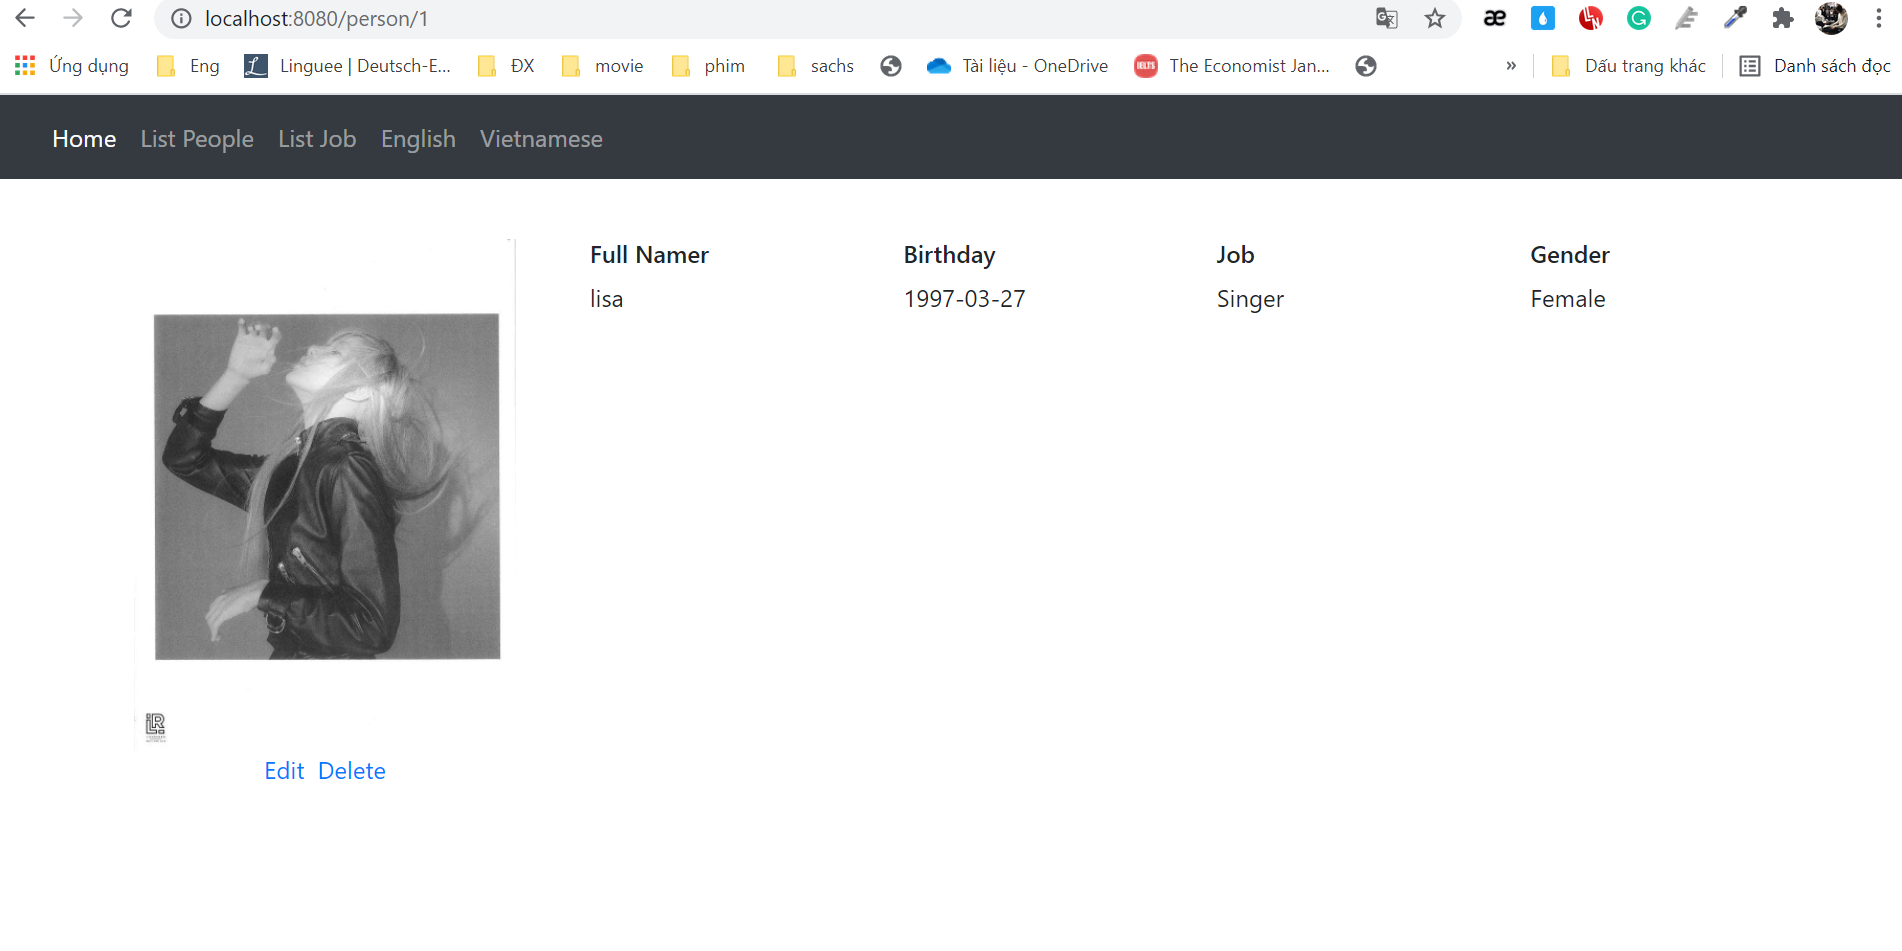
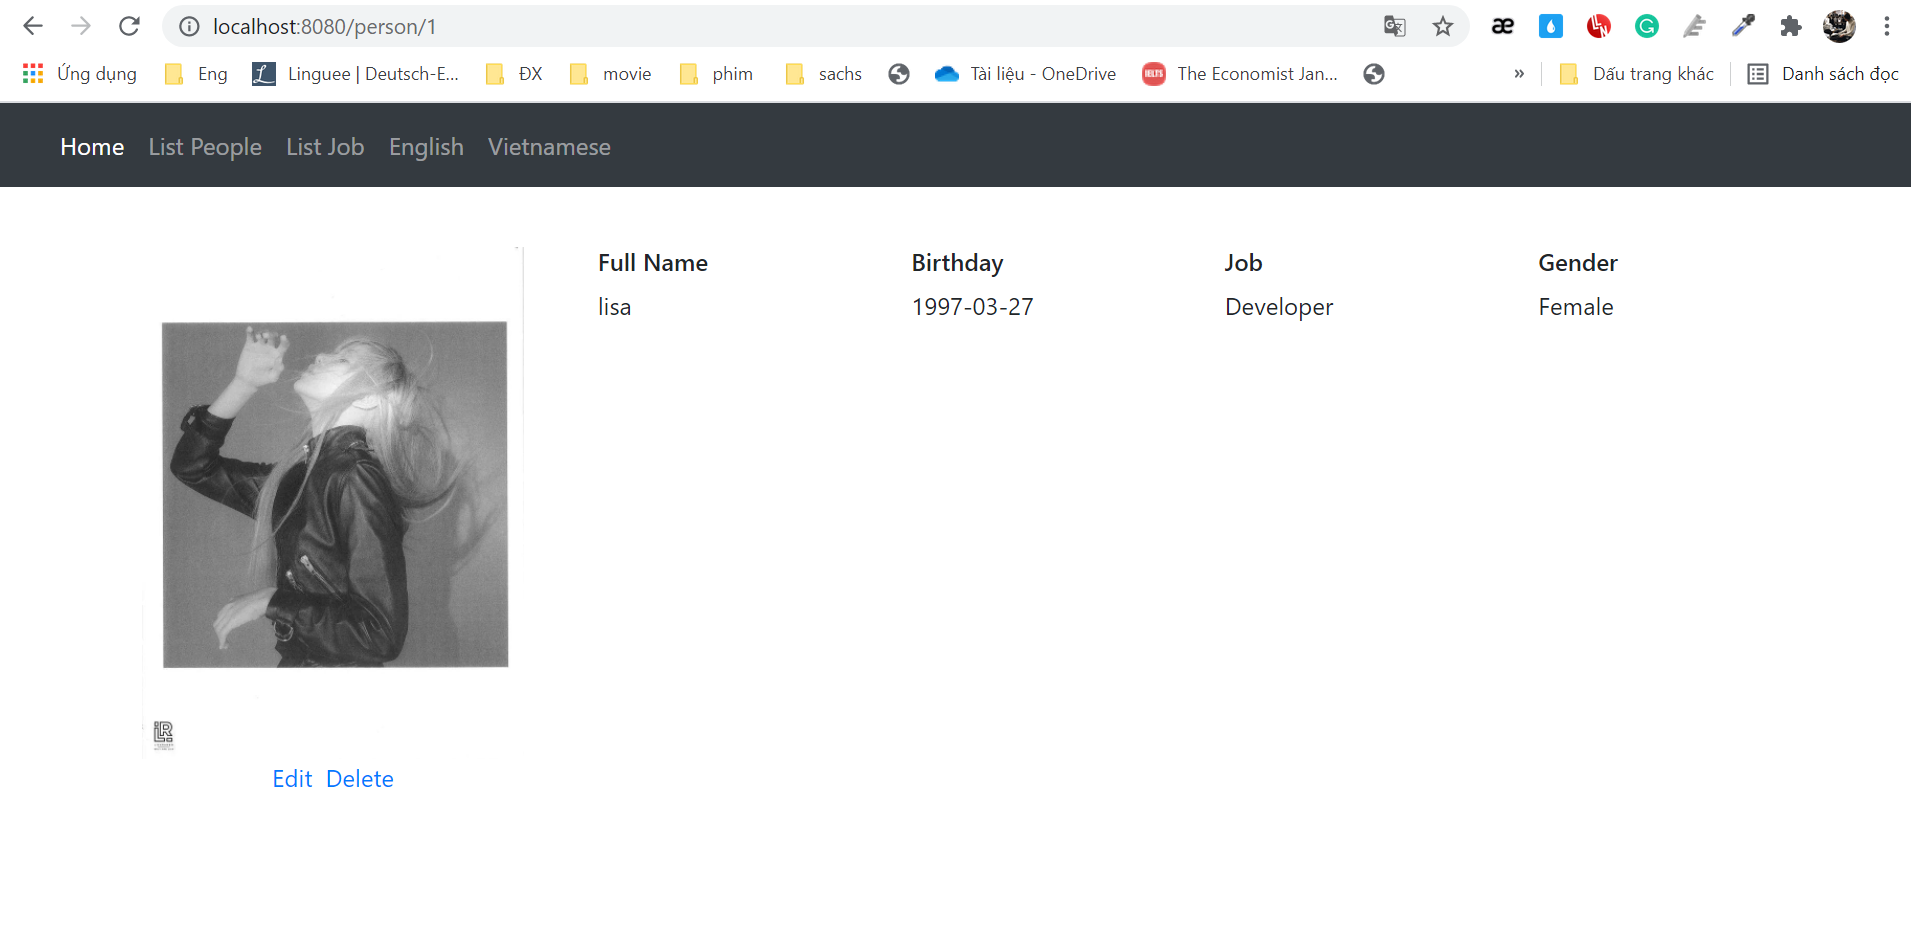
last

diff --git a/Lession14/demo/src/main/resources/templates/personInfor.html b/Lession14/demo/src/main/resources/templates/personInfor.html
@@ -14,7 +14,7 @@
             </div>
         </div>
         <div class="col-2 mx-auto ">
-            <h6>Full Namer</h6>
+            <h6>Full Name</h6>
             <p th:text="${person.name}"></p>
         </div>
         <div class="col-2 mx-auto ">

diff --git a/Lession14/demo/src/main/java/com/example/demo/FileUploadApplication.java b/Lession14/demo/src/main/java/com/example/demo/FileUploadApplication.java
@@ -13,7 +13,7 @@ public class FileUploadApplication {
 		SpringApplication.run(FileUploadApplication.class, args);
 	}
 
-    //Cau hinh de load anh tu thu muc photos sang thu muc static/photo
+    //Cau hinh de load anh tu thu muc photos sang thu muc static/photos
     @Configuration
     public class WebConfig implements WebMvcConfigurer{
 	  @Override

diff --git a/Lession14/demo/Readme.md b/Lession14/demo/Readme.md
@@ -1,11 +1,20 @@
 1. Them people
-![images](1.png)
+![alt](src/images/1.png)
 
 2. Danh sach people
-
+![alt](src/images/2.png)
 
 3. Chi tiet people
-![](images/3.png)
+![alt](src/images/3.png)
 
 4. Sua people
-![](images/4.png)
+![alt](src/images/4.png)
+
+5. List Job
+![alt](src/images/5.png)
+
+6. Edit Job
+![alt](src/images/6.png)
+
+7. Them Job
+![alt](src/images/7.png)
